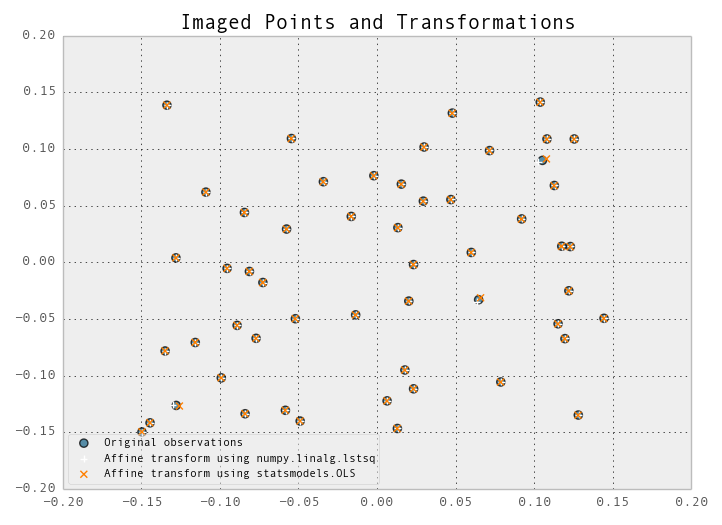
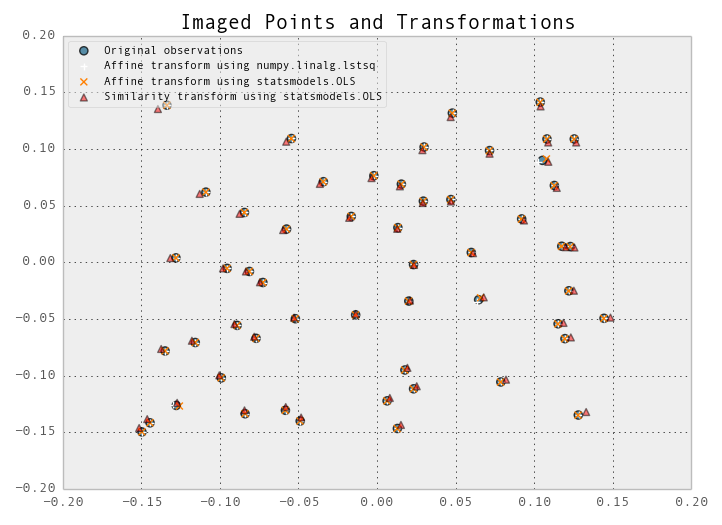
Adding a similarity transform using statsmodels.OLS

diff --git a/README.md b/README.md
@@ -11,7 +11,11 @@ It should also be noted that the signatures of the `numpy.linalg.lstsq` and `sta
 
 Data is contained in pickled pandas objects in the data directory.
 
-[coordinates.pickle](data/coordinates.pickle) contains observed coordinates, residuals, and updated coordinates, which are the result of a [numpy.linalg.lstsq()](http://docs.scipy.org/doc/numpy/reference/generated/numpy.linalg.lstsq.html) operation on [A_matrix.pickle](data/A_matrix.pickle), [b_vector.pickle](data/b_vector.pickle), which returns values for `a0, a1, a2, b0, b1, b2`. This [vector](data/params.pickle) (`x`) is used to calculate residuals using `Ax-b`. The resulting residual vector contains all `x` residuals, followed by all `y` residuals. These are added to the existing `x` and `y` coordinates to produce updated positions, which can be seen as white crosses in the figure below. The orange crosses are the result of running [statsmodels.OLS().fit()](http://statsmodels.sourceforge.net/devel/generated/statsmodels.regression.linear_model.OLS.html#statsmodels.regression.linear_model.OLS) on the same data set, splitting the residuals into two columns in the `coords` DataFrame, and generating updated `x` and `y` values by subtracting them from the original observations:
+[coordinates.pickle](data/coordinates.pickle) contains observed coordinates, residuals, and updated coordinates, which are the result of a [numpy.linalg.lstsq()](http://docs.scipy.org/doc/numpy/reference/generated/numpy.linalg.lstsq.html) operation on [A_matrix.pickle](data/A_matrix.pickle), [b_vector.pickle](data/b_vector.pickle), which returns values for `a0, a1, a2, b0, b1, b2`. This [vector](data/params.pickle) (`x`) is used to calculate residuals using `Ax-b`. The resulting residual vector contains all `x` residuals, followed by all `y` residuals. These are added to the existing `x` and `y` coordinates to produce updated positions, which can be seen as white crosses in the figure below.
+
+The orange crosses are the result of running [statsmodels.OLS().fit()](http://statsmodels.sourceforge.net/devel/generated/statsmodels.regression.linear_model.OLS.html#statsmodels.regression.linear_model.OLS) on the same data set, splitting the residuals into two columns in the `coords` DataFrame, and generating updated `x` and `y` values by subtracting them from the original observations.
+
+The red triangles are the result of a similarity transform, using [statsmodels.OLS().fit()](http://statsmodels.sourceforge.net/devel/generated/statsmodels.regression.linear_model.OLS.html#statsmodels.regression.linear_model.OLS):
 
 ![results](results.png "Least Squares Fit Results of an Affine Transformation")
 
@@ -19,6 +23,5 @@ You can see the IPython notebook used to generate the figure [here](http://nbvie
 
 **TODO**:
 - Incorporate a weight matrix
-- Perform a similarity transform
-- Compare the quality of the two
+- Compare the quality of the two transforms
 - Get some sleep
